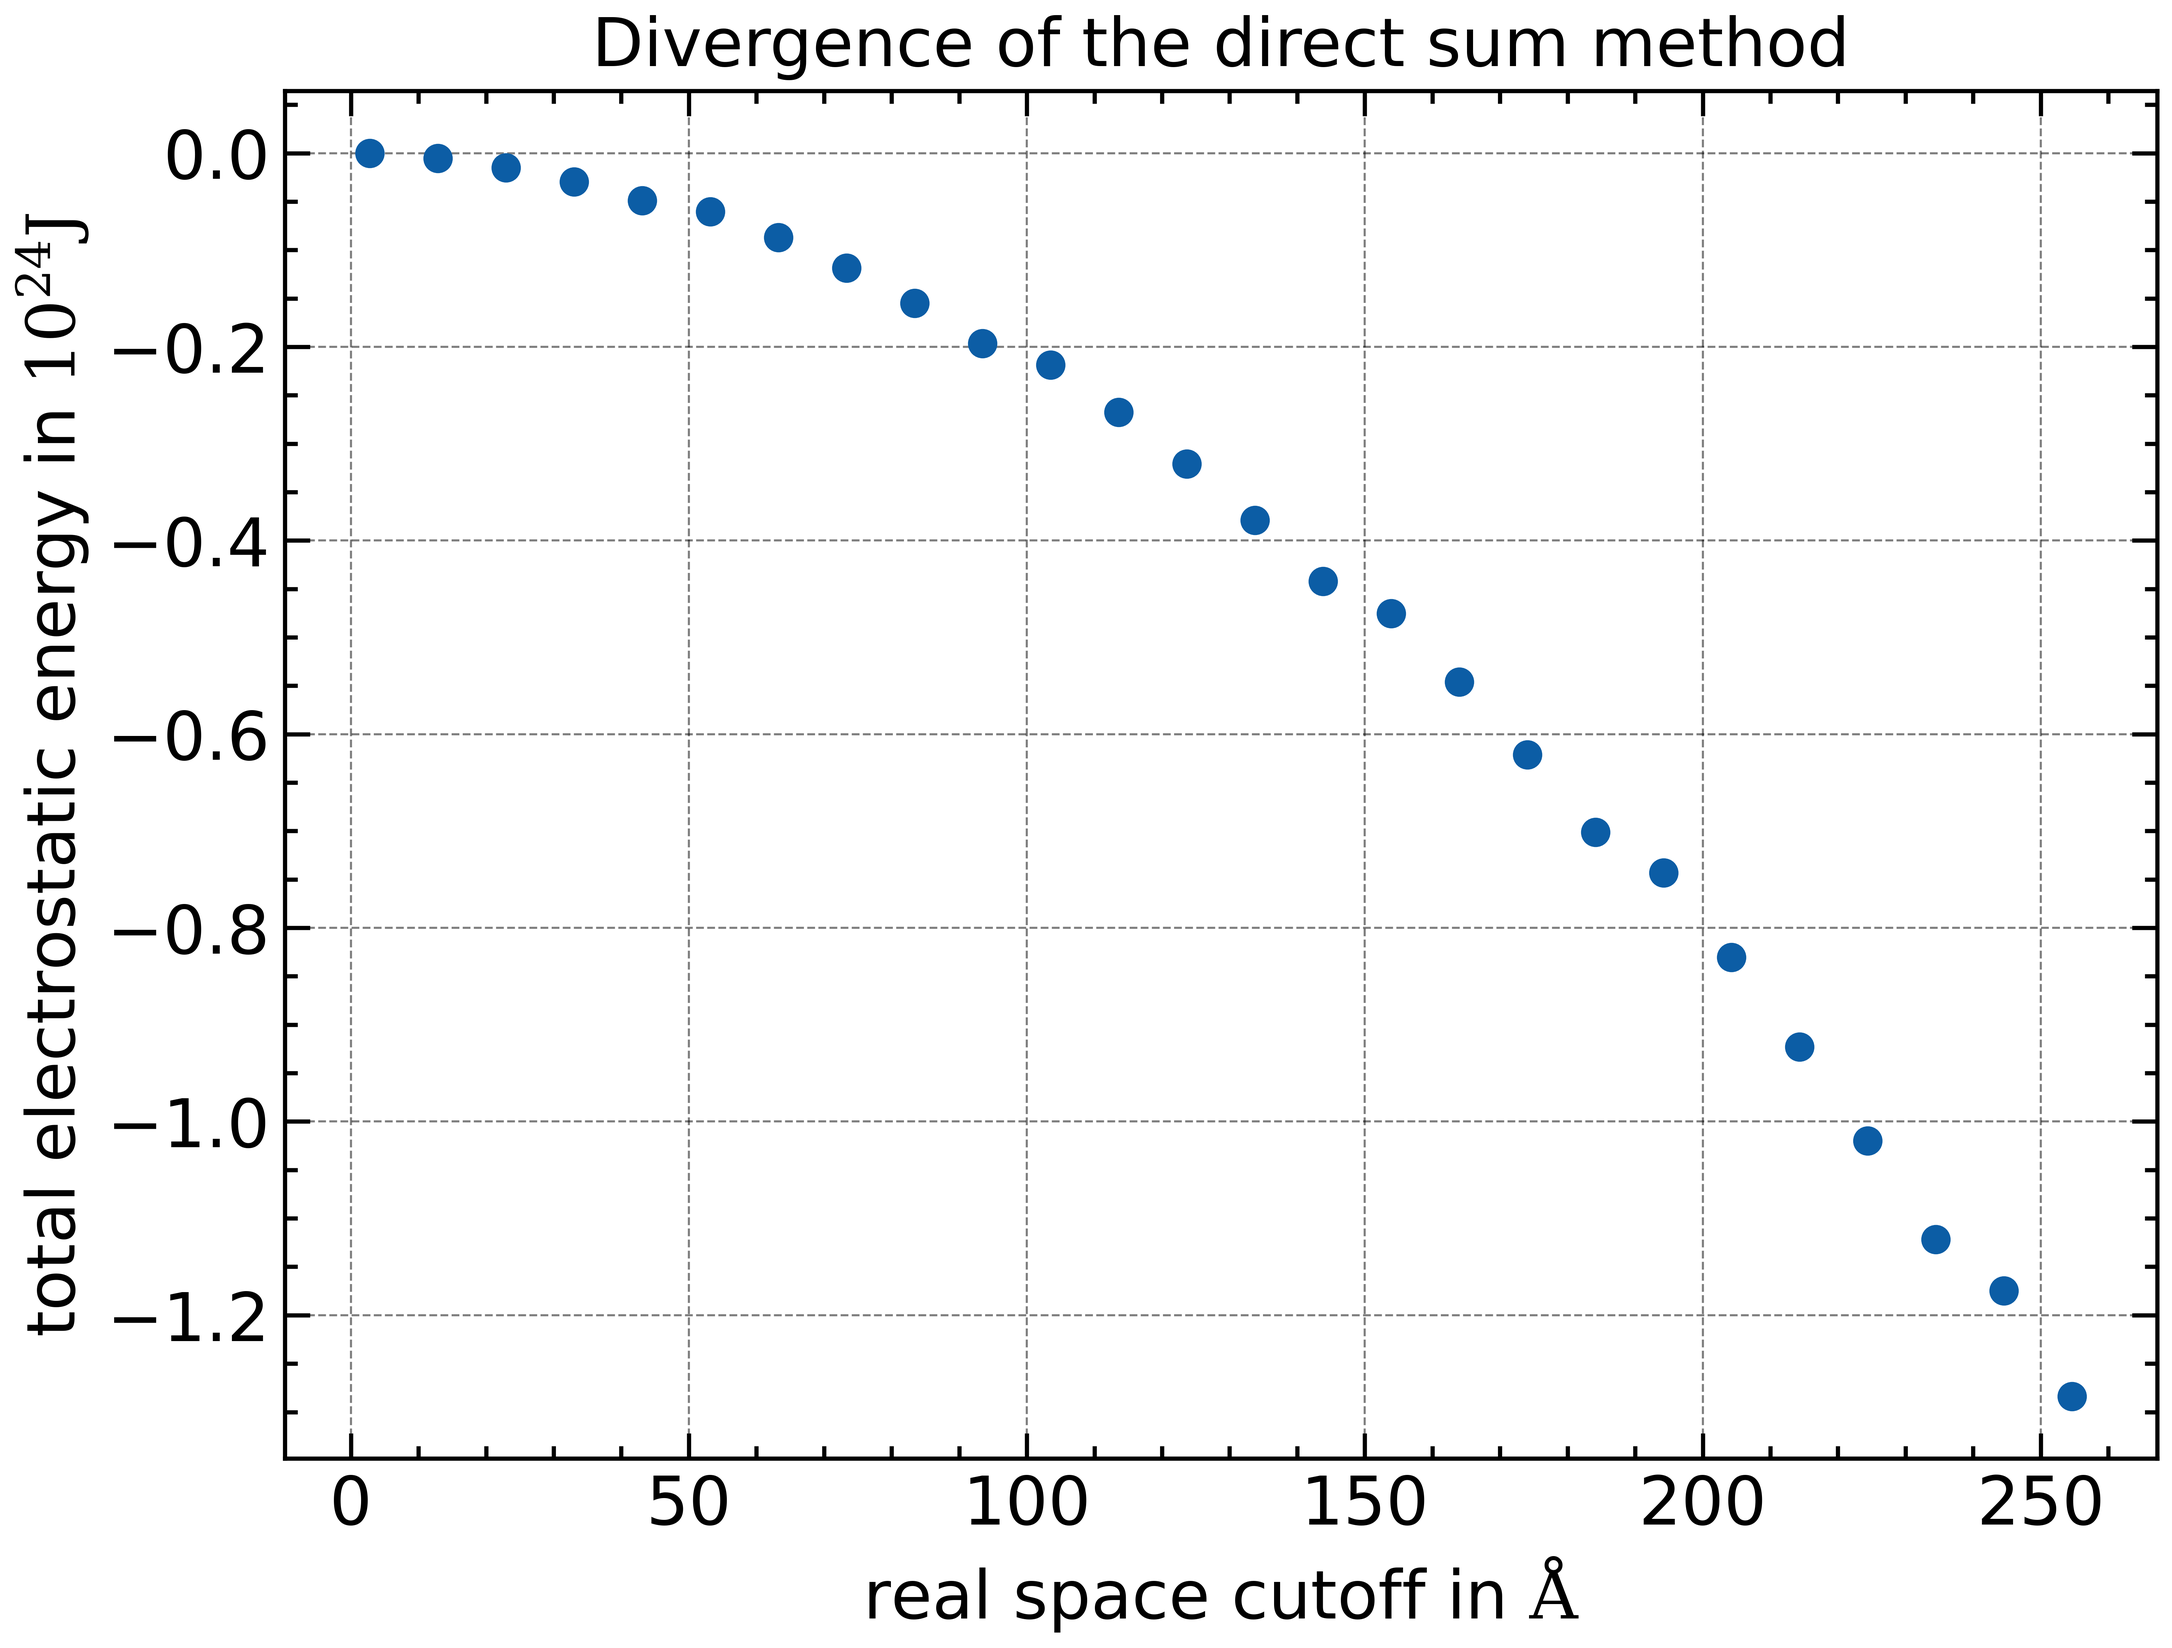
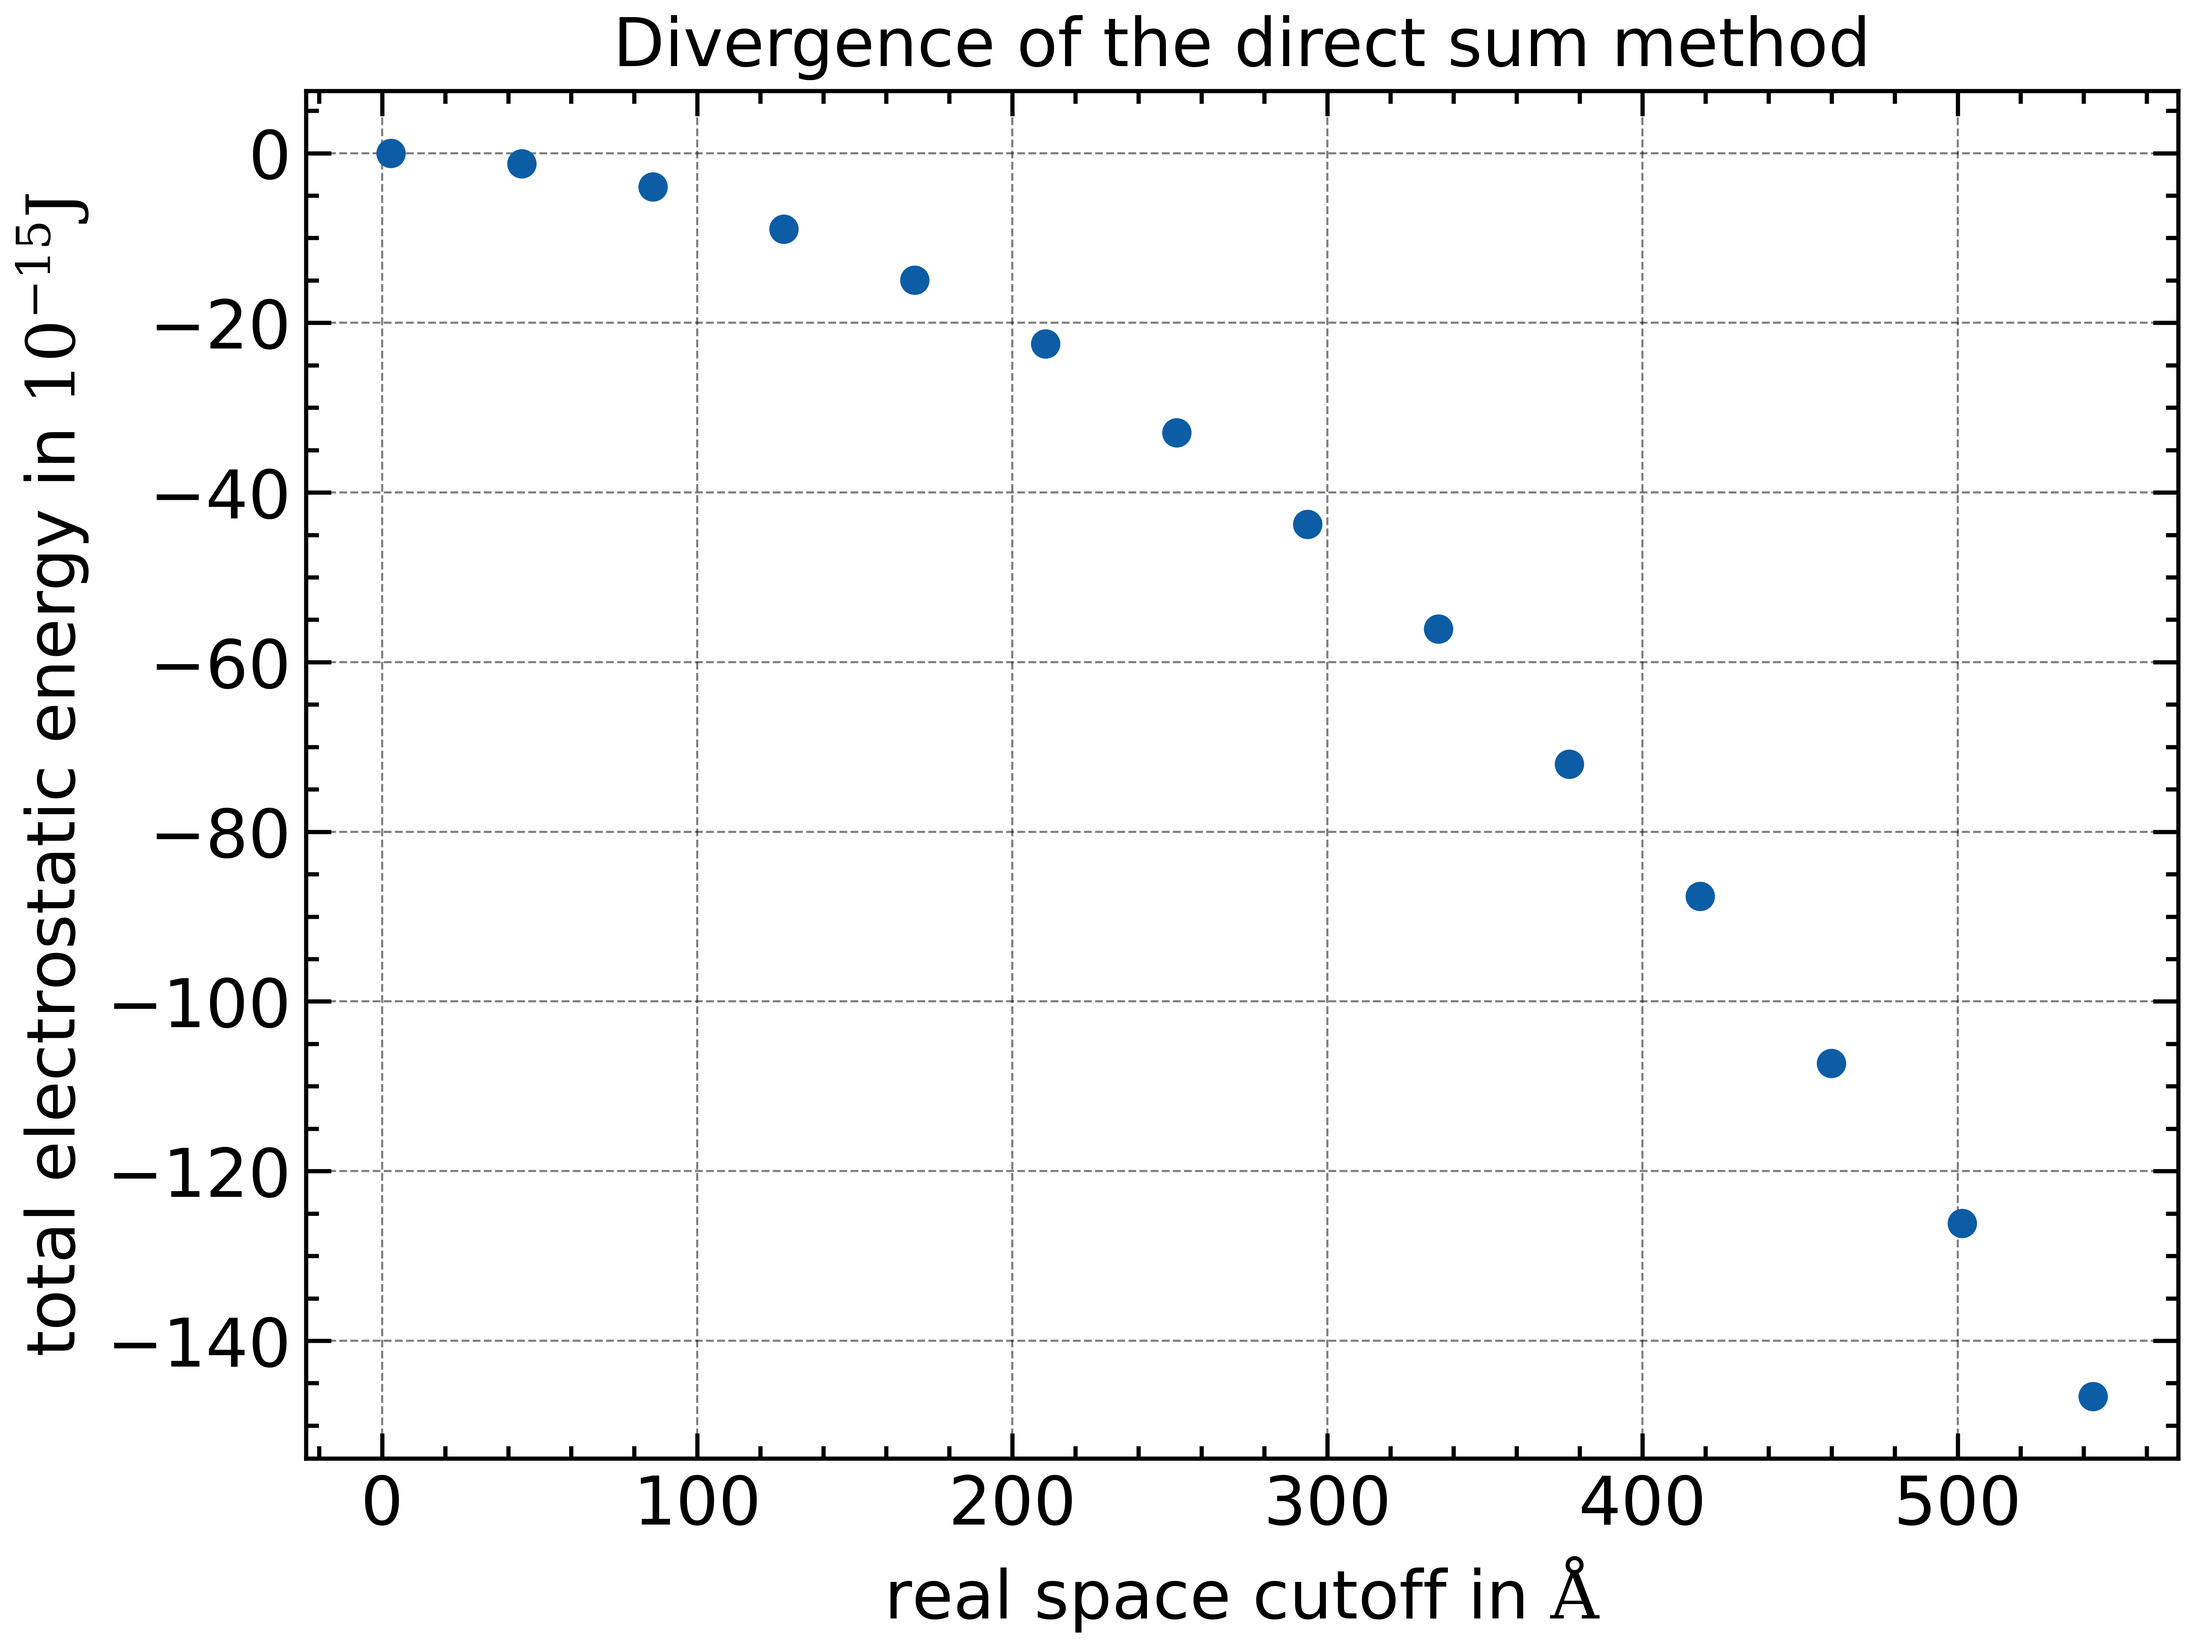
- rephrased real part of the ewald sum and direct sum - added method to Structure class to get particles within cutoff sphere

diff --git a/examples/DS_NaCl_plot.py b/examples/DS_NaCl_plot.py
@@ -1,13 +1,16 @@
 """
-Example script to showcase the functionality of the implemented direct summation technique to calculate 
-the electrostatic energy of the sodium cloride unit cell over a range of real space cutoff values with 
-the results plotted in a r_cut vs. E_tot graph
+Example script to measure the divergence of the direct summation technique with increasing
+real space cutoff values and the time and memory usage of the calculation. The results are
+plotted. 
 """
 
 # %%
-from matplotlib import markers
 import matplotlib.pyplot as plt
 plt.style.use(['science', 'notebook', 'grid'])
+import time
+import memory_profiler as mp
+
+
 import numpy as np
 import SummerOfSixtyNine.ssn as ssn
 from SummerOfSixtyNine.ssn.structure import Structure
@@ -28,21 +31,42 @@ cell_parameters     = [5.64e-10, 4]
 struc = Structure(formula, atomic_numbers, oxidation_states, crystal_type, cell_parameters)
 # %%
 # make array of energies depending on cutoff values
-r_cut_vals = np.linspace(2.81e-10, 1e-7, 100)
+r_cut_vals = np.linspace(2.81e-10, 1e-8, 10)
 # %%
 energies = []
+timings = []
+mem_uses = []
 for r_cut in r_cut_vals:
-    energy = ssn.run_ssn(struc, r_cut, technique, outval)
+    # measure time before running ssn
+    start_time = time.time()
+    
+    # run ssn while measuring memory usage
+    mem_return = mp.memory_usage((ssn.run_ssn, [struc, r_cut, technique, outval]), interval=.001, retval=True)
+    
+    # measure time after running ssn
+    time_total = (time.time() - start_time)
+
+    # get memory usage and energy from memory_usage return values
+    mem_use = np.max(mem_return[0]) - np.min(mem_return[0])
+    energy = mem_return[1]
+
     print('E({0}) ='.format(np.where(r_cut_vals == r_cut)[0][0]), energy)
+
+    # append values to lists
+    timings.append(time_total)
+    mem_uses.append(mem_use)
     energies.append(energy)
+
 # %%
+timings = np.array(timings)
+mem_uses = np.array(mem_uses)
 energies = np.array(energies)
 # %%
 print(energies)
 # %%
-plt.plot(r_cut_vals[0:26] * 1e10, energies[0:26] * 1e-24, 'o')
+plt.plot(r_cut_vals * 1e10, energies * 1e15, 'o')
 plt.xlabel(r'real space cutoff in $\mathrm{\AA}$')
-plt.ylabel(r'total electrostatic energy in $10^{24} \mathrm{J}$')
+plt.ylabel(r'total electrostatic energy in $10^{-15} \mathrm{J}$')
 plt.title(r'Divergence of the direct sum method')
-plt.savefig(fname='../data/direct_sum_divergence', dpi=900)
+plt.savefig(fname='../data/direct_sum_divergence_1', dpi=900)
 # %%

diff --git a/ssn/structure.py b/ssn/structure.py
@@ -118,6 +118,40 @@ class Structure:
                     n_ijk = np.array([i, j, k])
                     
                     if np.linalg.norm(n_ijk) != 0:
-                        n.append(n_ijk)
+                        n.append(n_ijk)        
         return n
+
+    def get_particles_in_cut(self, r_i, r_cut):
+        '''
+        Returns list of charges, list of coordinate-arrays and list of distances of particles that lie within a distance r_cut to 
+        a given particle at position r_i. 
+
+        **Parameters:**
+
+        r_i : np.ndarray, dtype = float64, shape = (3,)
+            Position of a given particle.
+        r_cut : float
+            Cutoff radius to which particles will be considered.
+        '''
+        # set repeat vectors
+        n_cut = int(np.rint(r_cut/self.cell_length + 1))
+        n = self.get_n(n_cut)
+        
+        # initialize lists
+        coords_in_cut = []
+        charges_in_cut = []
+        dist_in_cut = []
+
+        # loop over all particles in all periodic images that may lie within cutoff radius
+        for n_i in n:
+            for j in len(self.coordinates):
+                r_j = self.coordinates[j] + n_i
+                r_ij = r_j - r_i
+                d_ij = np.linalg.norm(r_ij)
+                if d_ij > 0.0 and d_ij <= r_cut:
+                    charges_in_cut.append(self.charges[j])
+                    coords_in_cut.append(r_j)
+                    dist_in_cut.append(d_ij)
+        
+        return charges_in_cut, coords_in_cut, dist_in_cut
 # %%

diff --git a/backups/ewald_09_02_22.py b/backups/ewald_09_02_22.py
@@ -53,16 +53,23 @@ def ewald_real(structure, sigma, real_cut):
     # initialize real space energy
     E_real = 0.0
     
-    for i in range(N):
-        # calculate particles within cutoff radius
-        charges_in_cut, coords_in_cut, dist_in_cut = structure.get_particles_in_cut(r[i], real_cut)
-        
-        # calculate self-energy term
-        E_real -= 1/(np.sqrt(2 * pi) * sigma) * q[i]**2
+    # loop over particles and calculate particles within cutoff sphere on the go
+    for n_i in n:
+        for i in range(N):
+            for j in range(N):
+                r_ij = r[j] - r[i]
+                d = np.linalg.norm(r_ij + nL)
+                # calculate self-energy
+                if d == 0.0:
+                    E_real += 1/(np.sqrt(2 * pi) * sigma) * q[i]**2
 
-        for j in len(coords_in_cut):
-            E_real += q[i] * charges_in_cut[j] / (dist_in_cut[j])
-                            
+                # calculate short-range terms
+                if i != j:
+                    if d <= real_cut:
+                        nL = n_i * L
+                        
+                        E_real += q[i] * q[j] / d * erfc(d/(np.sqrt(2) * sigma))
+
     # account for double counting and multiply with constants
     E_real *= e**2/(4 * pi * epsilon_0) * 1/2
 

diff --git a/backups/direct_09_02_22.py b/backups/direct_09_02_22.py
@@ -37,11 +37,15 @@ def direct_sum(structure, real_cut):
     E = 0.0
     
     # add direct summands succeedingly
-    for i in range(N):
-        charges_in_cut, coords_in_cut, dist_in_cut = structure.get_particles_in_cut(r[i], real_cut)
-        for j in len(coords_in_cut):
-            E += q[i] * charges_in_cut[j] / (dist_in_cut[j])
-    
+    for n_i in n:
+        for i in range(N):
+            for j in range(N):
+                if i != j:
+                    r_ij = r[j] - r[i]
+                    if np.linalg.norm(r_ij) <= real_cut:
+                        nL = n_i * L
+                        E += q[i] * q[j] / (np.linalg.norm(r_ij + nL))
+
     # account for double counting and multiply with constants
     E *= e**2/(4 * pi * eps_0) * 1/2
 
